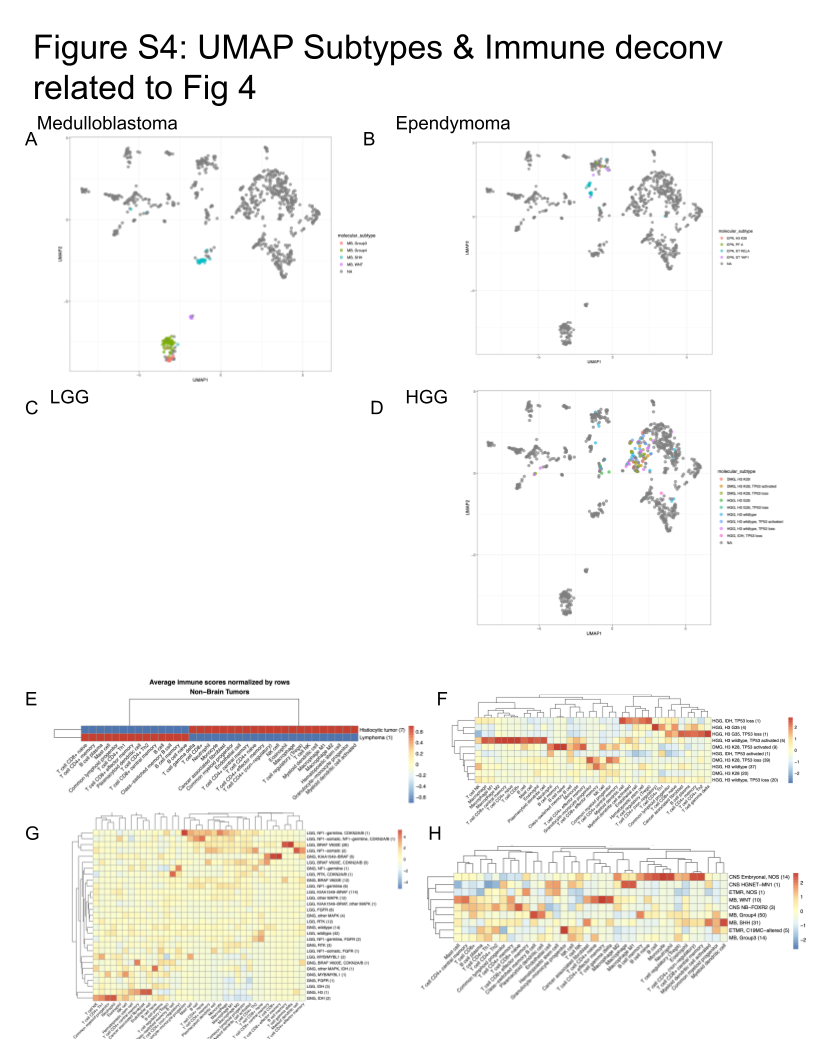
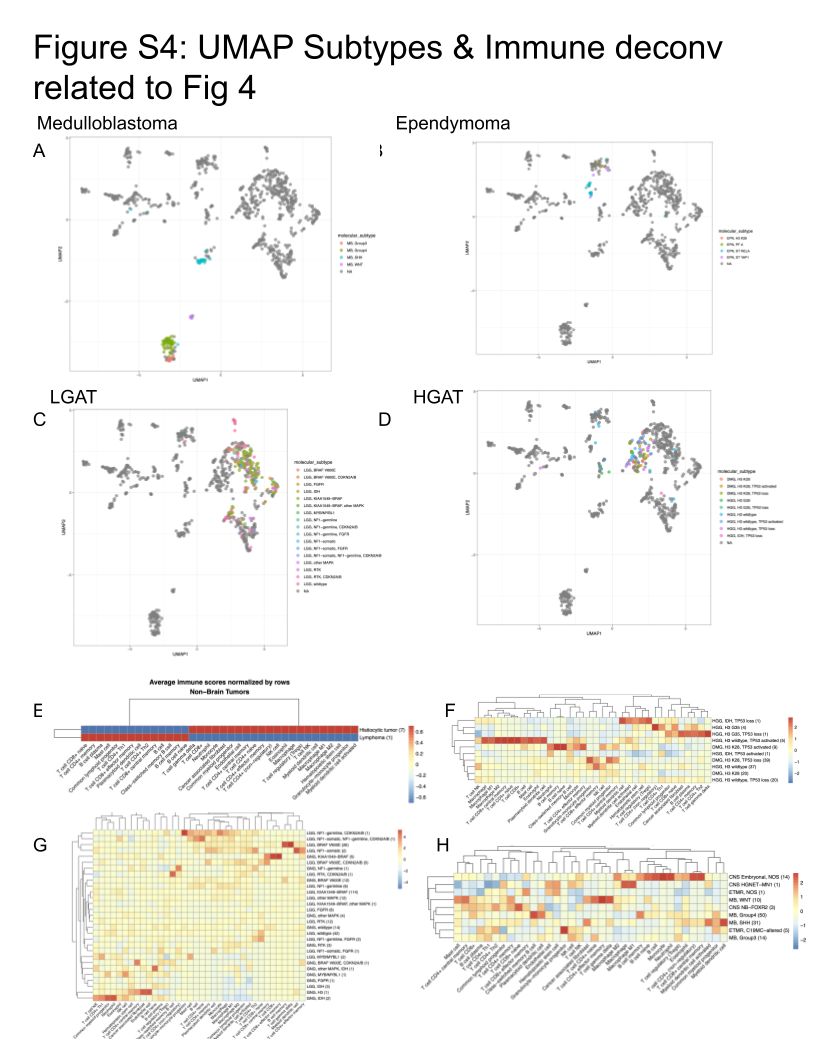
update S4 and update clustering results

diff --git a/content/04.results.md b/content/04.results.md
@@ -166,17 +166,20 @@ We also found evidence of chromothripsis in over 15% of embryonal tumors, ependy
 #### Histologic and oncogenic pathway clustering
 
 UMAP visualization of gene expression variation across brain tumors (**Figure {@fig:Fig4}A**) shows the expected clustering of brain tumors by histology.
+We observed medulloblastomas cluster by molecular subtype with WNT and SHH in distinct clusters and Groups 3 and 4 showing some overlap (**Figure {@fig:FigS4}A**), as expected.
+Additionally, _C11orf95::RELA_ fusion positive ependymomas formed distinct clusters (**Figure {@fig:FigS4}B**).
+However, within low-grade (**Figure {@fig:FigS4}C** and high-grade (**Figure {@fig:FigS4}D** astrocytic tumors, tumors were dispersed by molecular subtype across their respective clusters.
 
 We performed geneset variant analysis (GSVA) for Hallmark cancer gene sets, demonstrating activation of underlying oncogenic pathways (**Figure {@fig:Fig4}B**).	
-We observed medulloblastomas cluster by molecular subtype with WNT and SHH in distinct clusters and  Groups 3 and 4 showing some overlap (**Figure {@fig:FigS4}A**), as expected.
-Additionally, _C11orf95::RELA_ fusion positive ependymomas formed distinct clusters (**Figure {@fig:FigS4}B**).
+
+<!-- TODO: Add immune deconvolution figure 4C information. -->
 
 #### Telomerase activity 
 
 We used gene expression data to predict telomerase activity using EXpression-based Telomerase ENzymatic activity Detection (EXTEND) [@doi:10.1038/s41467-020-20474-9] as a surrogate measure of malignant potential [@doi:10.1038/s41467-020-20474-9; 10.1093/carcin/bgp268].
-EXTEND scores significantly correlated with _TERT_ and _TERC_ expression (**Figure {@fig:FigS4}E-F**).  
-We found aggressive tumors such as CNS lymphoma, ETMR, ATRT, DMG, and HGG had high EXTEND scores (**Figure {@fig:Fig4}C**), while benign lesions such as teratomas, dysplasias, and hemangioblastomas had the lowest scores (**Table S3**). 
+EXTEND scores significantly correlated with _TERT_ and _TERC_ expression (**Figure {@fig:FigS5}D-E**).  
+We found aggressive tumors such as CNS lymphoma, ETMR, ATRT, DMG, and HGG had high EXTEND scores (**Figure {@fig:Fig5}C**), while benign lesions such as teratomas, dysplasias, and hemangioblastomas had the lowest scores (**Table S3**). 
 <!-- TODO: Add link to S3 once generated. -->
 
 ![**Figure 4. Transcriptomic overview** A, First two dimensions from UMAP of sample transcriptome data.
-Points are colored by `cancer_group` of the samples they represent. B, Heatmap of GSVA scores for Hallmark gene sets with significant differences, with samples ordered by `cancer_group`. C, EXTEND scores by cancer group (box plots)](images/main/Figure4.png){#fig:Fig4}
+Points are colored by `cancer_group` of the samples they represent. B, Heatmap of GSVA scores for Hallmark gene sets with significant differences, with samples ordered by `cancer_group`. C, <!-- TODO: Add description about immune deconvolution image we use as main. -->](images/main/Figure4.png){#fig:Fig4}
